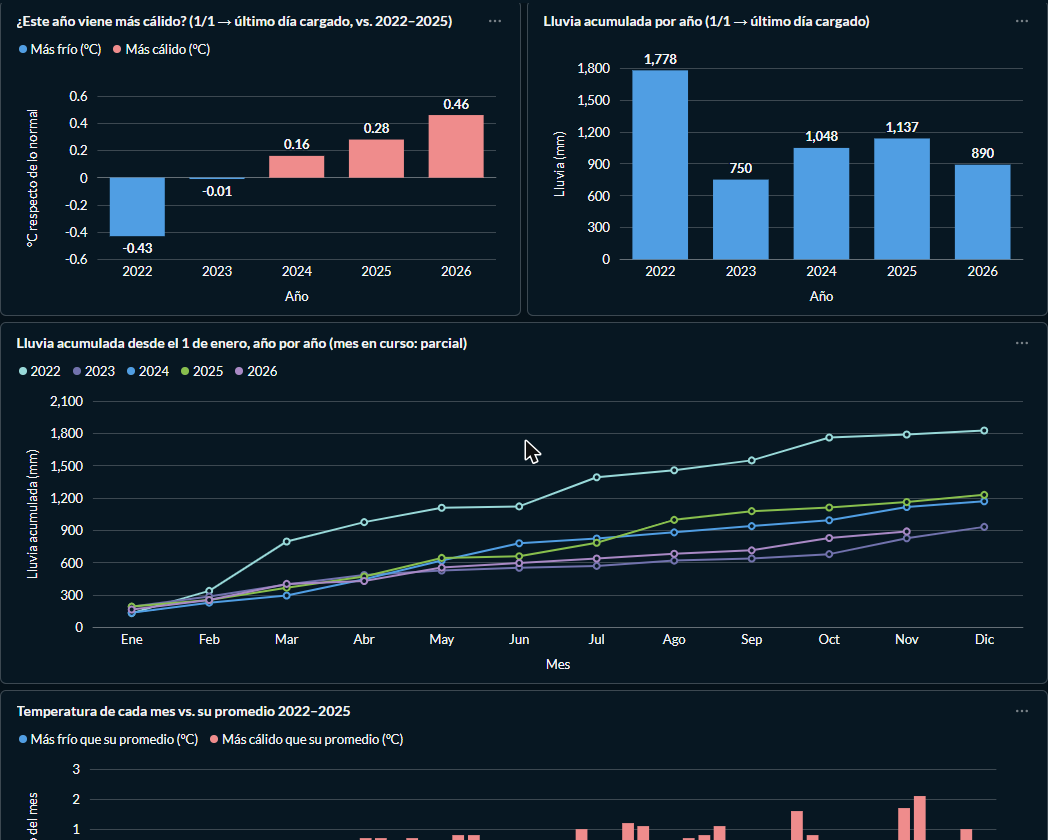
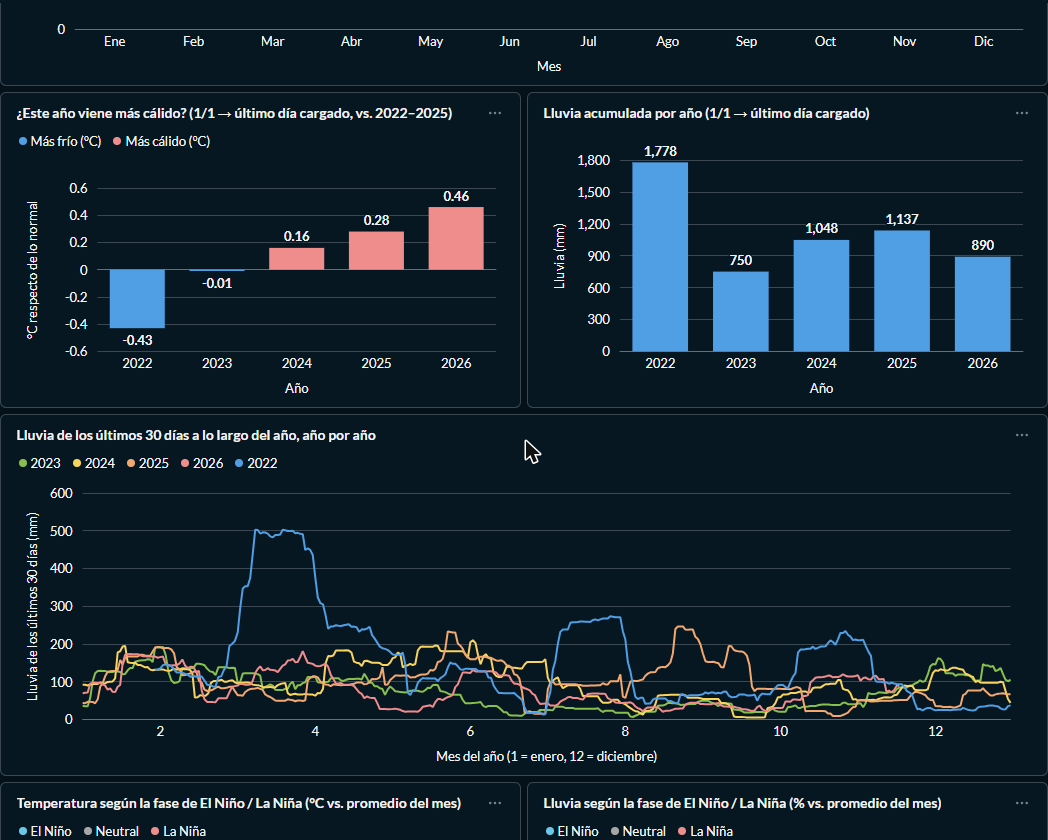
Revisión de E1-E4 contra las rúbricas: linaje regenerado, conteos y datos al 17/11, capturas finales
- Linaje regenerado desde el manifest de dbt (incluye fases_enso).
- E2: dos seeds, test de solapamiento ENSO, filas al 17/11. E3: 5 tareas. E4: cuándo se recrea la tabla.
- Tablero: capturas de los 14 gráficos y SQL del gráfico por estación.

Claude-Session: https://claude.ai/code/session_011bp94sahfTdV2tRXbzS6dH

diff --git a/docs/E2_dbt.md b/docs/E2_dbt.md
@@ -12,15 +12,20 @@ dbt docs generate --profiles-dir .   # catálogo + linaje en target/index.html
 Requiere bronze cargado (E1) y el `.env` (o las variables de entorno del Jupyter).
 
 **Silver lee de la tabla Delta de bronze**, no de un CSV: `models/sources.yml` declara `bronze.clima_diario`
-con el plugin `delta` de dbt-duckdb, apuntando a `s3://grupo06/bronze/clima_sidney`. El único seed es el
-catálogo de códigos WMO (una dimensión de referencia, no datos del pipeline).
+con el plugin `delta` de dbt-duckdb, apuntando a `s3://grupo06/bronze/clima_sidney`. Los dos seeds son catálogos de
+referencia, no datos del pipeline: los códigos WMO de estado del tiempo y las fases de El Niño / La Niña según la Oficina
+de Meteorología de Australia (ver [governance](governance.md)).
 
 ## Linaje
 
 ```
 source bronze.clima_diario (Delta, MinIO) ──► stg_clima_diario ──┬──► fct_clima_mensual   (gold)
-seed codigos_wmo ──► stg_codigos_clima ──────────────────────────┘    feat_clima_diario   (gold · features, E4)
+seed codigos_wmo ──► stg_codigos_clima ──────────────────────────┤
+seed fases_enso  ──► stg_fases_enso ─────────────────────────────┘
+                                         stg_clima_diario ──────────► feat_clima_diario   (gold · features, E4)
 ```
+
+![Linaje generado desde el manifest de dbt](capturas/linaje_dbt.png)
 
 ## Qué limpia silver (problemas encontrados explorando, NB03)
 
@@ -43,9 +48,9 @@ apuntando a algo que no existe fuera de dbt. Son ~1.800 filas: materializarla no
 **`fct_clima_mensual`**: *¿Cómo fue el clima de Sídney cada mes —temperatura, lluvia, viento— y cuánto se
 apartó del promedio de ese mismo mes en 2022-2025?*
 
-Un registro por mes (58 meses frente a 1.754 días de silver). Columnas en lenguaje de negocio:
+Un registro por mes (59 meses frente a ~1.780 días de silver, al 17/11/2026). Columnas en lenguaje de negocio:
 `temperatura_media_c`, `anomalia_temperatura_c`, `lluvia_total_mm` frente a `lluvia_referencia_mm`, `dias_con_lluvia`,
-`dias_de_calor_30c`, `mes_completo`, `fuente_del_dato`, etc. (todas descriptas en `models/marts/schema.yml`).
+`dias_de_calor_30c`, `mes_completo`, `fase_enso`, `fuente_del_dato`, etc. (todas descriptas en `models/marts/schema.yml`).
 
 ## Tests
 
@@ -61,6 +66,7 @@ Un registro por mes (58 meses frente a 1.754 días de silver). Columnas en lengu
 | `assert_serie_sin_huecos` | Días faltantes entre la primera y la última fecha | Un watermark que avanzó salteando días, o un filtro de silver que borra de más |
 | `assert_gold_dias_no_superan_el_mes` | Meses con más días que el calendario, o más días de lluvia que días con datos | Duplicados que pasaron de silver a gold |
 | `assert_features_sin_fuga_temporal` | Promedio móvil de 7 días que no coincide con su recálculo usando solo el pasado | Fuga temporal en los features (E4) |
+| `assert_fases_enso_sin_solapamiento` | Dos períodos de El Niño / La Niña que se pisan en el catálogo | Un mes con dos fases duplicaría filas de la gold mensual al hacer el join |
 
 **Demo "romper un dato"** (NB04, sección 4): se copia bronze a una tabla **temporal**, se pone en un día una mínima de 35 °C con
 máxima de 12 °C, y se corre dbt contra esa copia → `assert_temperaturas_coherentes` falla y el build termina con error.

diff --git a/docs/E3_airflow_ci.md b/docs/E3_airflow_ci.md
@@ -66,7 +66,7 @@ nunca "hoy". *(Verificado: `manual__2026-03-10T09:00` escribió solo el 2026-03-
 
 **Opción D — CLI** (si se tiene acceso al scheduler): `airflow dags backfill pipeline_grupo06 -s 2026-03-01 -e 2026-03-07`.
 
-**¿Qué pasaría si quisiéramos backfillear dos años?** Con corridas diarias serían ~730 corridas × 4 tareas (≈ 2.900
+**¿Qué pasaría si quisiéramos backfillear dos años?** Con corridas diarias serían ~730 corridas × 5 tareas (≈ 3.650
 tareas en un Airflow compartido), 730 pedidos a la API y 730 `dbt build` completos, uno por corrida (los modelos no son
 incrementales). Lo razonable es la opción A, por año: Open-Meteo devuelve un año en un solo pedido, la ingesta ya parte
 por año, y dbt corre una sola vez al final.
@@ -79,7 +79,7 @@ Workflow `CI` en GitHub Actions, en **cada push y cada pull request**. Tres jobs
 |---|---|
 | **Ingesta** | Que `entorno.py` y los scripts compilen + 10 tests de `ci/test_ingesta.py` sin red: primera corrida con las dos APIs, segunda corrida sin pedidos, incremental desde el watermark, backfill sin duplicar, días no publicados, errores transitorios con reintento, errores permanentes sin reintento, respuestas malformadas |
 | **dbt** | Crea una tabla Delta local con `ci/bronze_muestra.csv` (78 días **reales** de nuestro bronze, cruzando el cambio de fuente) → `dbt parse` + `dbt compile` (SQL válido) → `dbt build` (modelos + todos los tests de datos) |
-| **DAG** | Que el DAG importe en **Airflow 2.9.3** (la versión del servidor) sin errores, con las 4 tareas en ese orden, reintentos entre 1 y 3, `catchup=False`, `max_active_runs=1`, y que la extracción use `data_interval_*` |
+| **DAG** | Que el DAG importe en **Airflow 2.9.3** (la versión del servidor) sin errores, con las 5 tareas en ese orden, reintentos entre 1 y 3, `catchup=False`, `max_active_runs=1`, y que la extracción use `data_interval_*` |
 
 **Qué pasa si falla:** la rama `main` está protegida y exige los tres checks en verde para mergear un pull request.
 Un cambio que rompe algo queda bloqueado en su PR (ver [defensa.md](defensa.md) para la demo del CI en rojo).

diff --git a/docs/E4_serving.md b/docs/E4_serving.md
@@ -5,17 +5,18 @@ Tablero: [`tablero_metabase.md`](tablero_metabase.md) · Governance: [`governanc
 
 ## 1. Gold en PostgreSQL
 
-`publicar_gold` es la **cuarta tarea del DAG**: el pipeline termina en el warehouse, nadie tiene que apretar un botón.
+`publicar_gold` es la **última tarea del DAG**: el pipeline termina en el warehouse, nadie tiene que apretar un botón.
 Publica en la base `warehouse`, schema `grupo06`:
 
 | Tabla | Filas | Clave |
 |---|---|---|
-| `fct_clima_mensual` | 1 por mes (58 al 20/10/2026) | `mes` |
-| `feat_clima_diario` | 1 por día (1.754) | `fecha` |
+| `fct_clima_mensual` | 1 por mes (59 al 17/11/2026) | `mes` |
+| `feat_clima_diario` | 1 por día (1.782 al 17/11/2026) | `fecha` |
 
 **Repetible:** cada tabla se reemplaza con `DELETE` + `INSERT` dentro de **una transacción** (correrla dos veces deja lo
-mismo, verificado en NB06). Es atómica: Metabase ve la versión anterior completa o la nueva completa. No se hace `DROP TABLE`,
-porque Metabase ata sus preguntas al id de la tabla y recrearla rompería el tablero. Si la gold viniera vacía, no se publica.
+mismo, verificado en NB06). Es atómica: Metabase ve la versión anterior completa o la nueva completa. No se hace `DROP TABLE`
+en cada corrida: solo si cambian las columnas de la gold (pasó al sumar `lluvia_mm` y `fase_enso`), la tabla se recrea
+con el esquema nuevo dentro de la misma transacción. Las preguntas del tablero son SQL nativo, así que sobreviven. Si la gold viniera vacía, no se publica.
 
 **¿Por qué mover la gold del lakehouse al warehouse?** Metabase y los usuarios de negocio se conectan a una base SQL, no a
 archivos Delta en MinIO. PostgreSQL atiende muchas consultas chicas y concurrentes (las del tablero); DuckDB es un motor

diff --git a/docs/tablero_metabase.md b/docs/tablero_metabase.md
@@ -12,6 +12,7 @@ el repositorio para poder rehacerlo. Cada gráfico es una *pregunta* guardada en
 ![Tablero, parte 2](capturas/metabase_tablero_2.png)
 ![Tablero, parte 3](capturas/metabase_tablero_3.png)
 ![Tablero, parte 4](capturas/metabase_tablero_4.png)
+![Tablero, parte 5](capturas/metabase_tablero_5.png)
 
 ## La pregunta que ordena el tablero
 
@@ -85,7 +86,8 @@ select temp_media_c as "Temperatura media (°C)" from grupo06.feat_clima_diario 
 select lluvia_acumulada_30d_mm as "Lluvia 30 días (mm)" from grupo06.feat_clima_diario order by fecha desc limit 1;
 ```
 
-**4 · Barras agrupadas**
+**4 · Barras agrupadas** (eje Y desde 10 °C para que se vean las diferencias; el promedio de la estación va como
+columna extra que aparece al pasar el mouse: *Visualización → Mostrar más columnas en el tooltip*)
 ```sql
 with d as (
   select case when extract(month from fecha) in (12,1,2) then 1 when extract(month from fecha) in (3,4,5) then 2
@@ -97,8 +99,8 @@ with d as (
 )
 select (array['Verano','Otoño','Invierno','Primavera'])[orden] as "Estación",
        round(avg(temp_media_c) filter (where not llovio)::numeric, 1) as "Día seco",
-       round(avg(temp_media_c) filter (where llovio)::numeric, 1) as "Día con lluvia",
-       round(avg(temp_media_c)::numeric, 1) as "Promedio de la estación"
+       round(avg(temp_media_c) filter (where llovio)::numeric, 1)     as "Día con lluvia",
+       round(avg(temp_media_c)::numeric, 1)                           as "Promedio de la estación (°C)"
 from d group by orden order by orden
 ```
 
